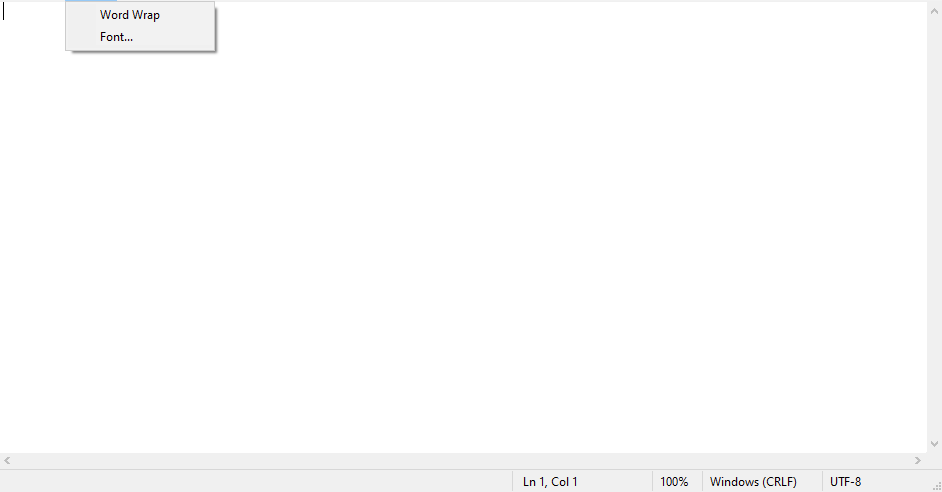
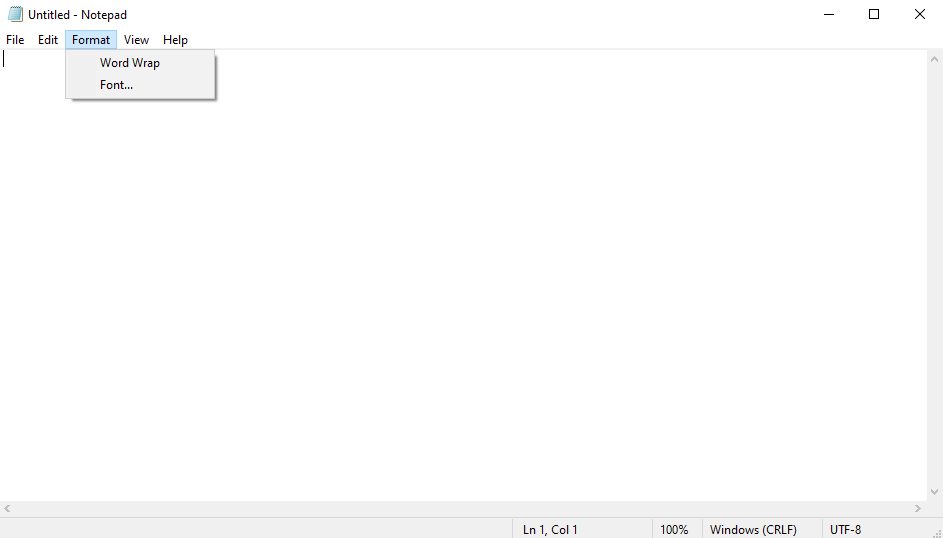
Added Submenu Refernece Images and error messages

diff --git a/client/src/pages/Create-a-task.jsx b/client/src/pages/Create-a-task.jsx
@@ -149,9 +149,12 @@ function validateDraftTask(task) {
 
 function CoordinateReferencePreview({ image, details, onSelectCoordinates }) { // Displays a preview of the reference image with a marker at the specified coordinates
     const markerStyle = getMarkerStyle(details, image);
+    const [imageError, setImageError] = useState(false);
 
-    if (!image) {
-        return null;
+    if (!image?.src || imageError) {
+        return(
+            <p className="field-error">Unable to load {image?.label || "reference image"}. Choose another screenshot.</p>
+        );
     }
 
     function handlePreviewClick(event) { // When the user clicks on the preview, we calculate the coordinates based on the click position and update the details
@@ -171,7 +174,7 @@ function CoordinateReferencePreview({ image, details, onSelectCoordinates }) { /
                 onClick={handlePreviewClick}
             >
                 {image.src ? (
-                    <img src={image.src} alt={image.label}/>
+                    <img src={image.src} alt={image.label} onError={() => setImageError(true)}/>
                 ) : (
                     <div className="reference-image-placeholder">{image.label}</div>
                 )}
@@ -187,16 +190,16 @@ function CoordinateReferencePreview({ image, details, onSelectCoordinates }) { /
 function CreateTask({taskDescription, tasks, onChangeText,onChangeDetail, onChangeTask, onSave, onCancel, onChangeTargetType, onChangeTarget, referenceImages}) {
     const isClick = taskDescription.task === "CLICK";
     const isTyped = taskDescription.task === "TYPE";
-    const details = getCoordinateDetails(taskDescription.details);
-    const selectedMenu = notepadMenus.find((menu) => menu.id === details.menuId);
-    const menuReferences = getReferenceMenu(details.menuId, referenceImages);
-    const submenuReferences = menuReferences.filter((image) => image.kind === "submenu");
-    const availableReferences = getReferenceMenu(selectedMenu.id, referenceImages);
-    const selectedReferenceImageId = details.referenceImageId;
-    const selectedReferenceImage = menuReferences.find((image) => image.id === details.referenceImageId) ?? null;
-    const selectedMenuId = details.menuId;
-    const selectedSubmenuId = details.referenceImageId === selectedMenu?.defaultReferenceImageId ? "": details.referenceImageId;
-    const selectedReferenceImageIndex = availableReferences.findIndex((image) => image.id === selectedReferenceImageId);
+    const details = getCoordinateDetails(taskDescription.details); // normalize menu, screenshot, and x y values
+    const selectedMenu = notepadMenus.find((menu) => menu.id === details.menuId); // menu config
+    const menuReferences = getReferenceMenu(details.menuId, referenceImages); // all screenshots assoicitated with that menu
+    const submenuReferences = menuReferences.filter((image) => image.kind === "submenu"); // screenshots with the submenu label
+    const availableReferences = getReferenceMenu(selectedMenu.id, referenceImages); // akin to menuReference
+    const selectedReferenceImageId = details.referenceImageId; // active screenshot saved ID
+    const selectedReferenceImage = menuReferences.find((image) => image.id === details.referenceImageId) ?? null; // actual image containing src and dimensions
+    const selectedMenuId = details.menuId; // valued displayed by the 1st dropdown
+    const selectedSubmenuId = details.referenceImageId === selectedMenu?.defaultReferenceImageId ? "": details.referenceImageId; // 2nd dropdown value
+    const selectedReferenceImageIndex = availableReferences.findIndex((image) => image.id === selectedReferenceImageId); // image position
 
     return (
         <div className="create-task-container">
@@ -260,7 +263,6 @@ function CreateTask({taskDescription, tasks, onChangeText,onChangeDetail, onChan
                                     ))}
                                 </select>
                             </label>
-                            
                             <label>
                                 <select className="reference-image-select" value={selectedSubmenuId} disabled={submenuReferences.length === 0} onChange={(e) => onChangeDetail("referenceImageId", e.target.value)}>
                                     <option value="">Default</option>
@@ -271,13 +273,12 @@ function CreateTask({taskDescription, tasks, onChangeText,onChangeDetail, onChan
                                     ))}
                                 </select>
                             </label>
-                            
                             {selectedReferenceImage && (
                                 <span className="reference-image-index"> Screen {selectedReferenceImageIndex + 1} of {availableReferences.length}</span>
                             )}
                         </div>
 
-                        <CoordinateReferencePreview image={selectedReferenceImage} details={taskDescription.details} onSelectCoordinates={(coordinates) => {
+                        <CoordinateReferencePreview key={selectedReferenceImage?.src || selectedReferenceImageId} image={selectedReferenceImage} details={taskDescription.details} onSelectCoordinates={(coordinates) => {
                             onChangeDetail("xPercent", coordinates.xPercent);
                             onChangeDetail("yPercent", coordinates.yPercent);
                         }} />
@@ -479,8 +480,7 @@ export default function CreateATask() {
                 details.referenceImageId = nextReferenceImageId;
             } else {
                 details[key] = value;
-            }
-            
+            }    
             return { ...current, details, errors: {}, };
         });
     }

diff --git a/client/src/lib/notepadReferences.js b/client/src/lib/notepadReferences.js
@@ -4,6 +4,15 @@ import notepadEditImage from "../assets/notepadReferences/Notepad-Edit.png";
 import notepadFormatImage from "../assets/notepadReferences/Notepad-Format.png";
 import notepadViewImage from "../assets/notepadReferences/Notepad-View.png";
 import notepadHelpImage from "../assets/notepadReferences/Notepad-Help.png";
+import notepad_Edit_FindImage from "../assets/notepadReferences/Notepad-Edit-Find.png";
+import notepad_Edit_GotoImage from "../assets/notepadReferences/Notepad-Edit-Goto.png";
+import notepad_Edit_ReplaceImage from "../assets/notepadReferences/Notepad-Edit-Replace.png";
+import notepad_Format_FontImage from "../assets/notepadReferences/Notepad-Format-Font.png";
+import notepad_File_OpenImage from "../assets/notepadReferences/Notepad-File-Open.png";
+import notepad_File_SaveAsImage from "../assets/notepadReferences/Notepad-File-Saveas.png";
+import notepad_file_pageSetupImage from "../assets/notepadReferences/Notepad-File-PageSetup.png";
+import notepad_file_printImage from "../assets/notepadReferences/Notepad-File-Print.png";
+import notepad_help_aboutImage from "../assets/notepadReferences/Notepad-Help-About.png";
 
 export const Notepad_Reference_Images = [
     {
@@ -11,8 +20,8 @@ export const Notepad_Reference_Images = [
             label: "Notepad Editor",
             menuID: ["editor"],
             src: notepadMainImage,
-            width: 942,
-            height: 490,
+            width: 945,
+            height: 540,
         },
         {
             id: "notepad_screen_file_menu",
@@ -20,7 +29,7 @@ export const Notepad_Reference_Images = [
             menuID: ["file"],
             src: notepadFileImage,
             width: 943,
-            height: 489,
+            height: 540,
         },
         {
             id: "notepad_screen_edit_menu",
@@ -28,15 +37,15 @@ export const Notepad_Reference_Images = [
             menuID: ["edit"],
             src: notepadEditImage,
             width: 943,
-            height: 490,
+            height: 540,
         },
         {
             id: "notepad_screen_format_menu",
             label: "Notepad Format Menu",
             menuID: ["format"],
             src: notepadFormatImage,
-            width: 942,
-            height: 492,
+            width: 943,
+            height: 538,
         },
         {
             id: "notepad_screen_view_menu",
@@ -44,7 +53,7 @@ export const Notepad_Reference_Images = [
             menuID: ["view"],
             src: notepadViewImage,
             width: 943,
-            height: 492,
+            height: 540,
         },
         {
             id: "notepad_screen_help_menu",
@@ -52,7 +61,88 @@ export const Notepad_Reference_Images = [
             menuID: ["help"],
             src: notepadHelpImage,
             width: 943,
-            height: 490,
+            height: 540,
+        },
+        {
+            id: "notepad_screen_edit_find",
+            label: "Notepad Edit Find",
+            menuID: ["edit"],
+            kind: "submenu",
+            src: notepad_Edit_FindImage,
+            width: 943,
+            height: 540,
+        },
+        {
+            id: "notepad_screen_edit_goto",
+            label: "Notepad Edit Goto",
+            menuID: ["edit"],
+            kind: "submenu",
+            src: notepad_Edit_GotoImage,
+            width: 943,
+            height: 538,
+        },
+        {
+            id: "notepad_screen_edit_replace",
+            label: "Notepad Edit Replace",
+            menuID: ["edit"],
+            kind: "submenu",
+            src: notepad_Edit_ReplaceImage,
+            width: 943,
+            height: 538,
+        },
+        {
+            id: "notepad_screen_format_font",
+            label: "Notepad Format Font",
+            menuID: ["format"],
+            kind: "submenu",
+            src: notepad_Format_FontImage,
+            width: 943,
+            height: 621,
+        },
+        {
+            id: "notepad_screen_file_open",
+            label: "Notepad File Open",
+            menuID: ["file"],
+            kind: "submenu",
+            src: notepad_File_OpenImage,
+            width: 943,
+            height: 540,
+        },
+        {
+            id: "notepad_screen_file_saveas",
+            label: "Notepad File Save As",
+            menuID: ["file"],
+            kind: "submenu",
+            src: notepad_File_SaveAsImage,
+            width: 945,
+            height: 540,
+        },
+        {
+            id: "notepad_screen_file_pagesetup",
+            label: "Notepad File Page Setup",
+            menuID: ["file"],
+            kind: "submenu",
+            src: notepad_file_pageSetupImage,
+            width: 943,
+            height: 538,
+        },
+        {
+            id: "notepad_screen_file_print",
+            label: "Notepad File Print",
+            menuID: ["file"],
+            kind: "submenu",
+            src: notepad_file_printImage,
+            width: 942, 
+            height: 538,
+        },
+        {
+            id: "notepad_screen_help_about",
+            label: "Notepad Help About",
+            menuID: ["help"],
+            kind: "submenu",
+            src: notepad_help_aboutImage,
+            width: 945,
+            height: 538,
         }
 ]
 
